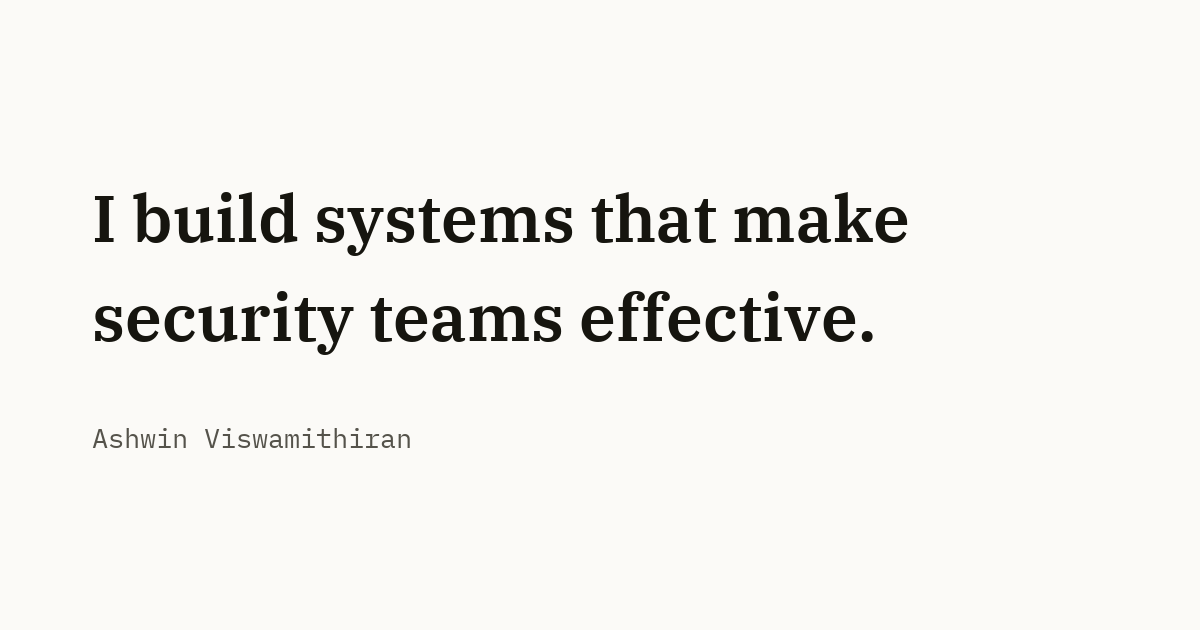
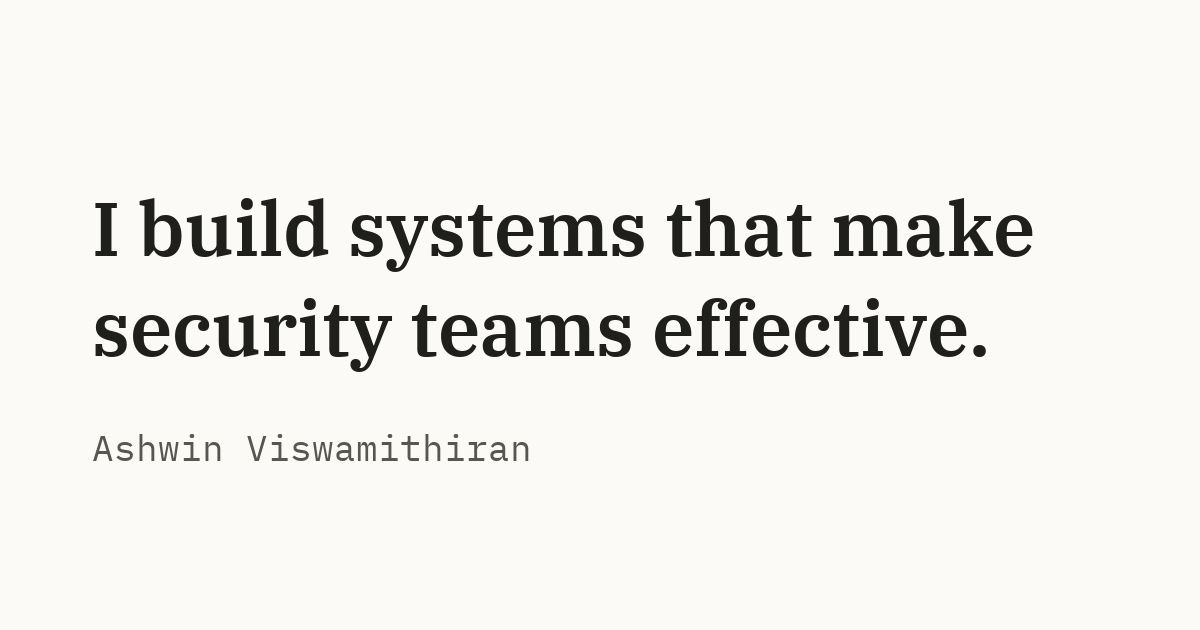
OG card: enlarge and darken name line so it stays legible when downscaled in-feed; save generator script

Changed region(s): [[0.0617, 0.3016, 0.8633, 0.4524], [0.0617, 0.4524, 0.8325, 0.6032], [0.0617, 0.6635, 0.4625, 0.754]]

diff --git a/tools/make_og_image.py b/tools/make_og_image.py
@@ -1,0 +1,77 @@
+"""Generate the site-wide Open Graph card at static/og-default.png.
+
+Design (per the brief): warm off-white ground, tagline in IBM Plex Serif,
+name beneath in IBM Plex Mono. No photo, no logo, no gradient.
+
+Sizing note: social platforms downscale a 1200x630 card to roughly 500px wide
+in-feed, so small/low-contrast text turns to mush. The name line is therefore
+set larger and darker than a print-style secondary line would be.
+
+Usage:  python tools/make_og_image.py
+Fonts are downloaded to a cache dir on first run; nothing is committed.
+"""
+
+from pathlib import Path
+from urllib.request import urlopen
+
+from PIL import Image, ImageDraw, ImageFont
+
+# --- canvas -----------------------------------------------------------------
+WIDTH, HEIGHT = 1200, 630
+BG = "#FBFAF7"          # warm off-white
+INK = "#1F1F1C"         # tagline
+NAME_INK = "#57564F"    # name: darker than before so it survives downscaling
+
+MARGIN_X = 92
+TAGLINE_TOP = 178
+TAGLINE_SIZE = 76
+TAGLINE_LEADING = 100
+NAME_SIZE = 36          # was 28 - too small once the card is shrunk in-feed
+NAME_TOP = 424
+
+TAGLINE = ["I build systems that make", "security teams effective."]
+NAME = "Ashwin Viswamithiran"
+
+# --- fonts ------------------------------------------------------------------
+FONT_BASE = "https://cdn.jsdelivr.net/gh/IBM/plex@v5.1.3/IBM-Plex-{fam}/fonts/complete/ttf/{file}"
+FONTS = {
+    "IBMPlexSerif-SemiBold.ttf": ("Serif", "IBMPlexSerif-SemiBold.ttf"),
+    "IBMPlexMono-Regular.ttf": ("Mono", "IBMPlexMono-Regular.ttf"),
+}
+CACHE = Path.home() / ".cache" / "ogfonts"
+
+
+def font_path(name: str) -> Path:
+    """Return a local path to the font, downloading it once if needed."""
+    CACHE.mkdir(parents=True, exist_ok=True)
+    dest = CACHE / name
+    if not dest.exists():
+        fam, file = FONTS[name]
+        url = FONT_BASE.format(fam=fam, file=file)
+        print(f"downloading {name}")
+        with urlopen(url, timeout=30) as resp:
+            dest.write_bytes(resp.read())
+    return dest
+
+
+def main() -> None:
+    serif = ImageFont.truetype(str(font_path("IBMPlexSerif-SemiBold.ttf")), TAGLINE_SIZE)
+    mono = ImageFont.truetype(str(font_path("IBMPlexMono-Regular.ttf")), NAME_SIZE)
+
+    img = Image.new("RGB", (WIDTH, HEIGHT), BG)
+    draw = ImageDraw.Draw(img)
+
+    y = TAGLINE_TOP
+    for line in TAGLINE:
+        draw.text((MARGIN_X, y), line, font=serif, fill=INK)
+        y += TAGLINE_LEADING
+
+    draw.text((MARGIN_X, NAME_TOP), NAME, font=mono, fill=NAME_INK)
+
+    out = Path(__file__).resolve().parent.parent / "static" / "og-default.png"
+    img.save(out, "PNG", optimize=True)
+    print(f"wrote {out} ({out.stat().st_size / 1024:.1f} KB, {WIDTH}x{HEIGHT})")
+
+
+if __name__ == "__main__":
+    main()
